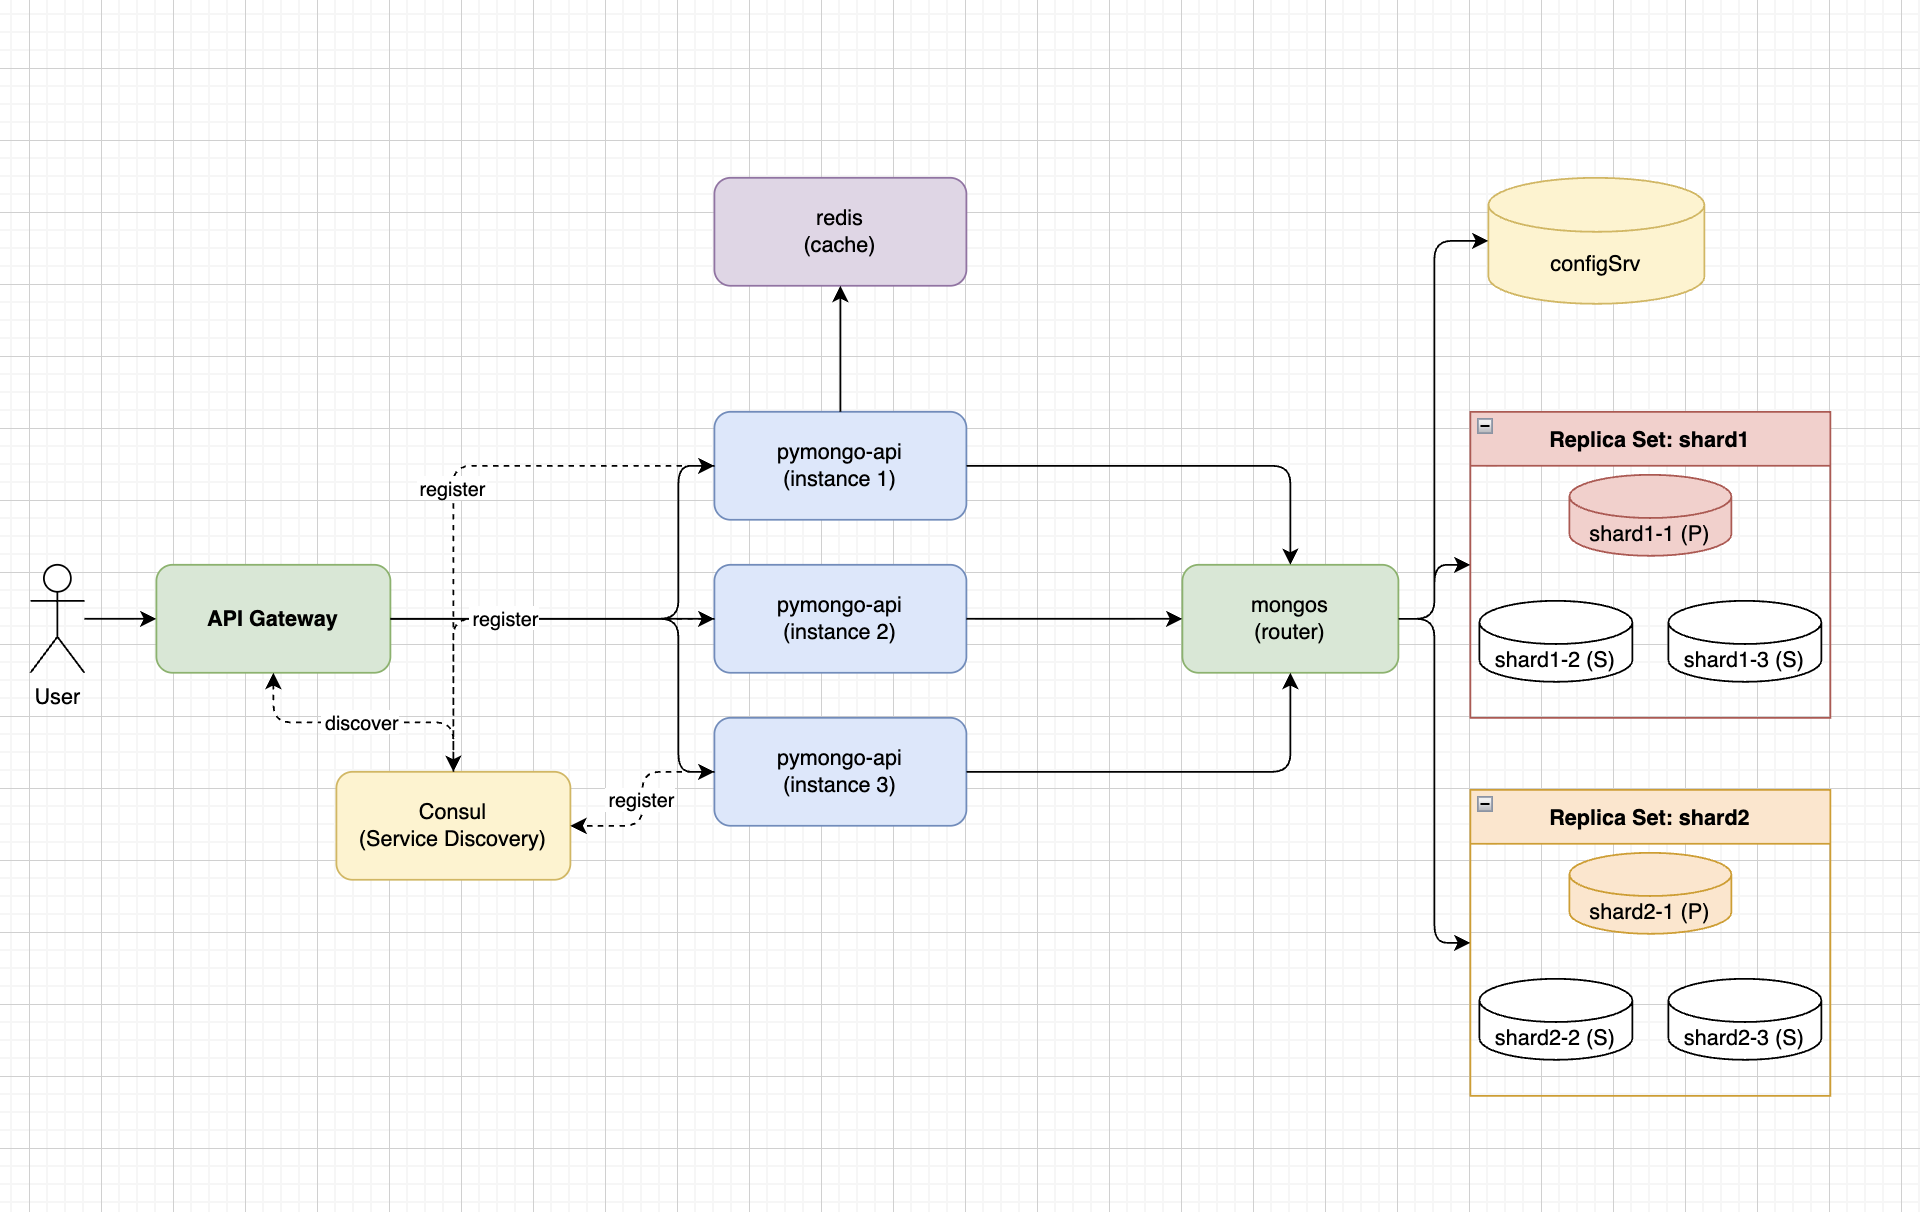
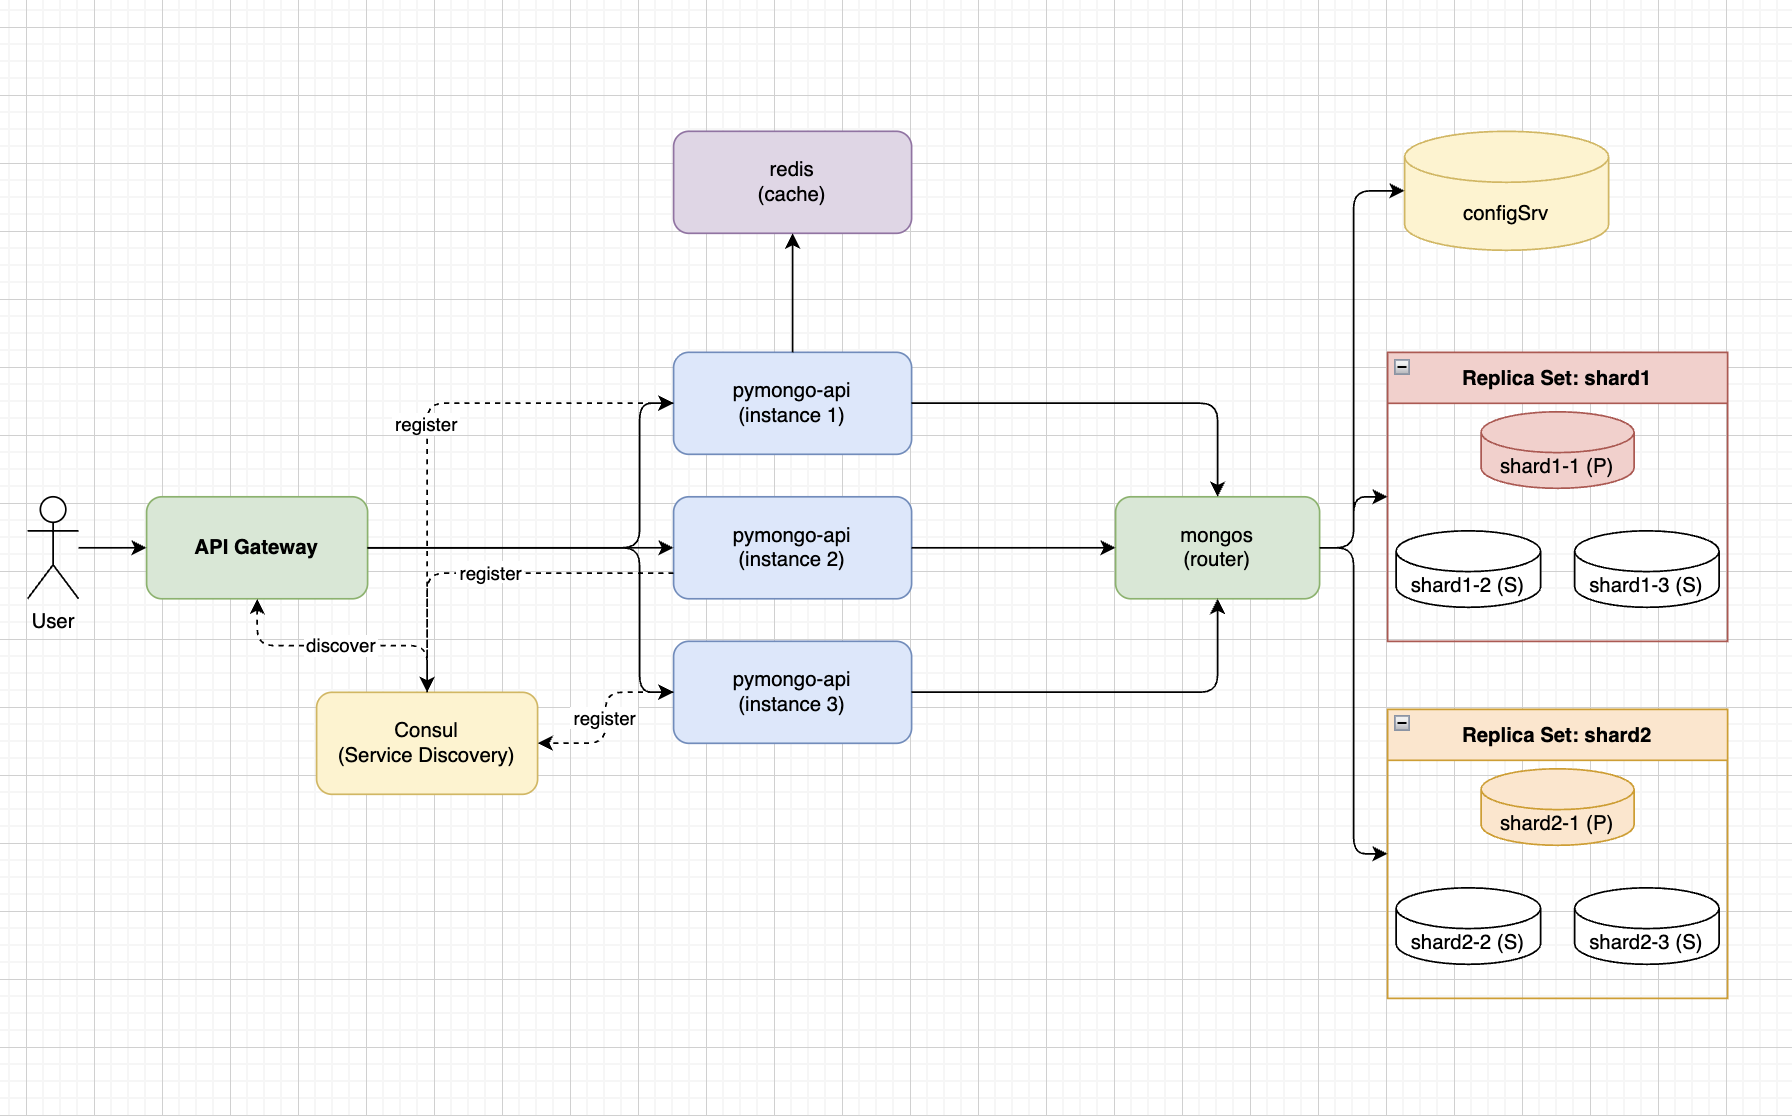
fixes

Changed region(s): [[0.0, 0.0914, 0.9688, 0.914]]

diff --git a/README.md b/README.md
@@ -52,10 +52,10 @@ chmod +x scripts/mongo-init.sh
 ### 4. Проверить кеширование
 
 ```shell
-# Первый вызов — медленный (~1с, без кеша)
+# Первый вызов — медленный 
 time curl -s http://localhost:8080/helloDoc/users > /dev/null
 
-# Второй вызов — быстрый (<100мс, из Redis)
+# Второй вызов — быстрый (из Redis)
 time curl -s http://localhost:8080/helloDoc/users > /dev/null
 ```
 
